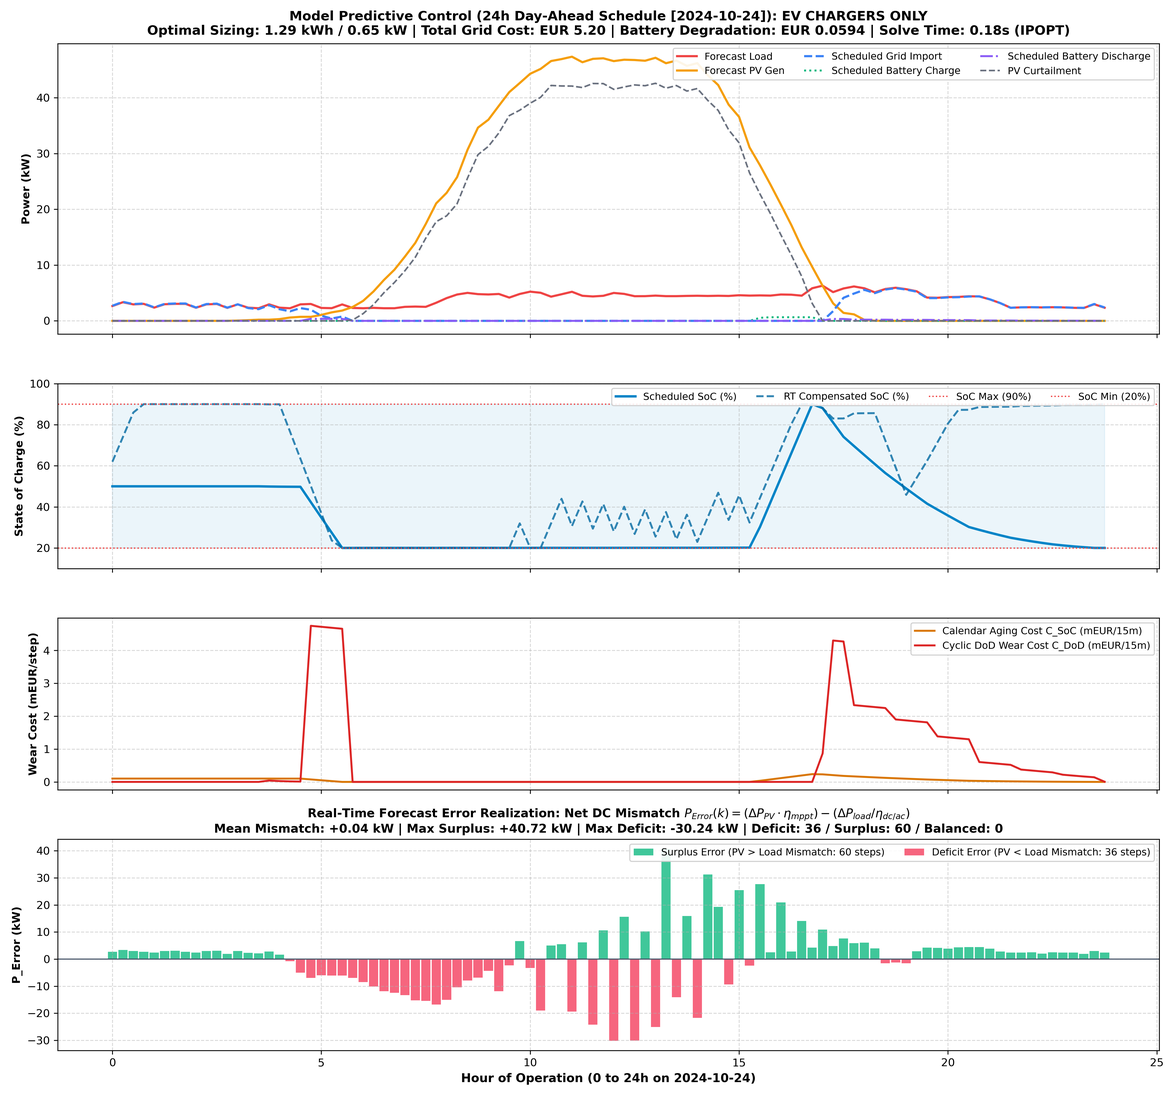
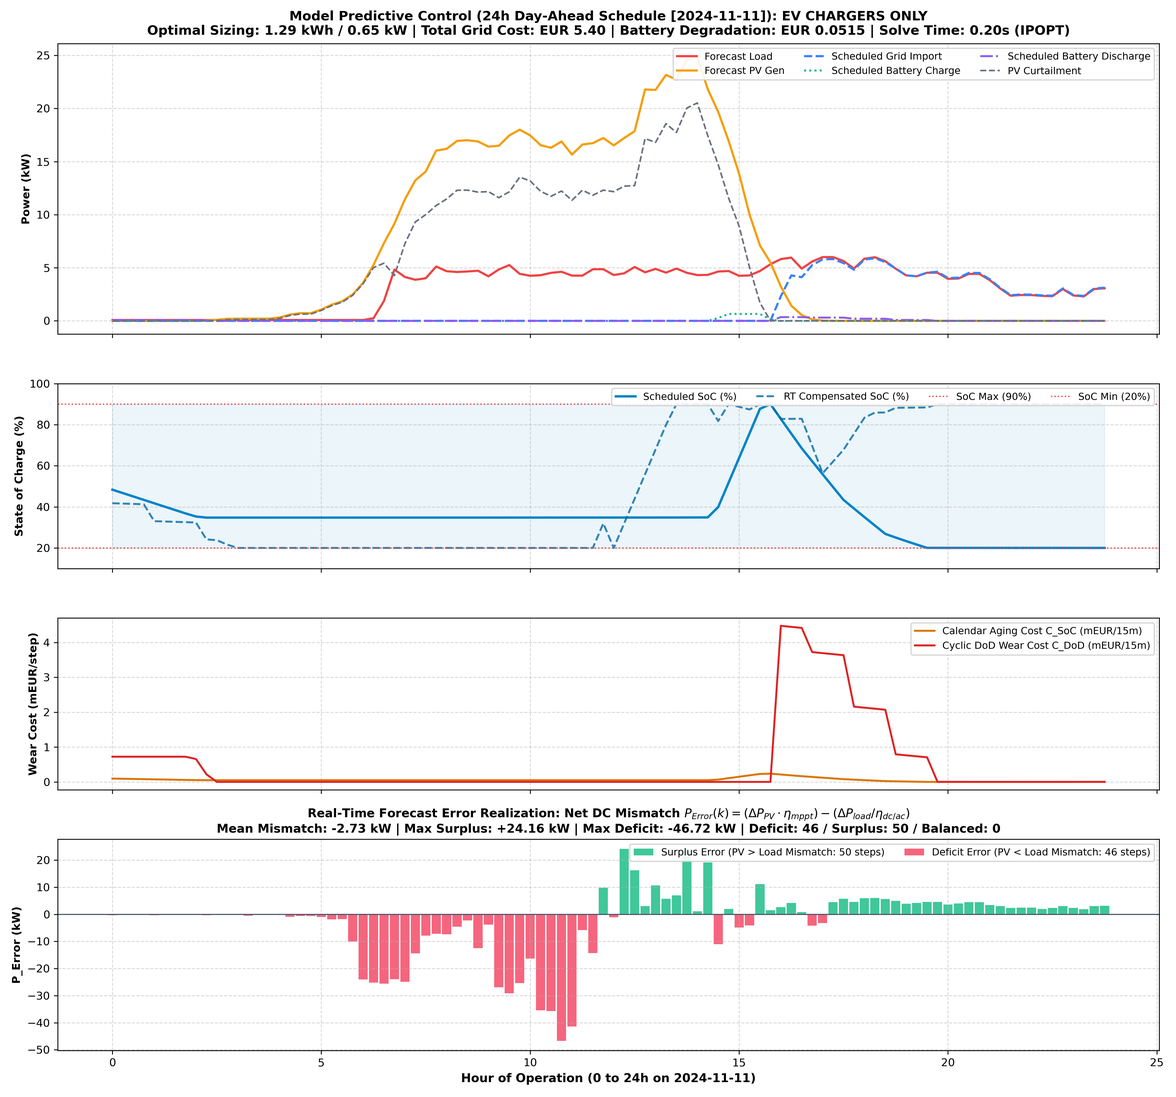
caltech update for the 2024 new year.

diff --git a/BMS_brain/src/web_ui/index.html b/BMS_brain/src/web_ui/index.html
@@ -438,13 +438,15 @@
                         <div style="display: flex; align-items: center; gap: 10px; flex-wrap: wrap; width: 100%;">
                             <span class="forecast-bar-label" style="color: #38bdf8; font-weight: 700;">📅 24h Simulation Day (96 Steps):</span>
                             <select id="mpc-date-preset" class="sim-date-preset" onchange="onPresetDateChange(this.value)" style="background: #0f172a; color: #f8fafc; border: 1px solid rgba(56, 189, 248, 0.45); border-radius: 6px; padding: 7px 11px; font-family: inherit; font-size: 0.83rem; font-weight: 600; cursor: pointer; flex: 1; min-width: 320px;">
-                                <option value="2024-10-24">🌟 2024-10-24 (Thu, Test Set) — Sunny Showcase Day [PV Peak: 103.2 kW | Supermarket: 97.6 kW | Lidl EV: 38.4 kW]</option>
-                                <option value="2024-10-05">☀ 2024-10-05 (Sat, Test Set) — Max PV Energy in Oct-Dec Test [PV Peak: 108.0 kW (443.2 kWh) | Supermarket: 98.4 kW | EV: 18.6 kW]</option>
-                                <option value="2024-10-01">📅 2024-10-01 (Tue, Test Set) — Test Split Start Day [PV Peak: 74.4 kW | Supermarket: 98.8 kW | Lidl EV: 7.2 kW]</option>
-                                <option value="2024-07-30">🔥 2024-07-30 (Tue, Summer Val) — Absolute Max Registered PV (132.0 kW) [PV Peak: 132.0 kW | Supermarket: 91.6 kW | EV: 11.4 kW]</option>
-                                <option value="2024-08-22">⚡ 2024-08-22 (Thu, Summer Val) — High Summer PV + High EV [PV Peak: 129.2 kW | Supermarket: 84.8 kW | Lidl EV: 31.2 kW]</option>
-                                <option value="2022-11-01">🎓 2022-11-01 (Tue, Caltech Test) — Caltech Test Split Start [PV Peak: 56.7 kW | Caltech EV Fleet: 62.6 kW]</option>
-                                <option value="2022-11-11">🚗 2022-11-11 (Fri, Caltech Test) — Caltech High EV Fleet Day [PV Peak: 88.4 kW | Caltech EV Fleet: 71.1 kW]</option>
+                                <option value="2024-10-24">🌟 2024-10-24 (Thu, Test Set) — Sunny Showcase Day [PV: 103.2 kW | Supermarket: 97.6 kW | Lidl EV: 38.4 kW | Caltech EV: 60.2 kW]</option>
+                                <option value="2024-10-05">☀ 2024-10-05 (Sat, Test Set) — Max PV Energy in Oct-Dec Test [PV: 108.0 kW (443.2 kWh) | Supermarket: 95.2 kW | Lidl EV: 14.0 kW | Caltech EV: 56.5 kW]</option>
+                                <option value="2024-10-01">📅 2024-10-01 (Tue, Test Set) — Test Split Start Day [PV: 74.4 kW | Supermarket: 98.8 kW | Lidl EV: 7.2 kW | Caltech EV: 11.0 kW]</option>
+                                <option value="2024-07-30">🔥 2024-07-30 (Tue, Summer Val) — Absolute Max Registered PV (132.0 kW) [PV: 132.0 kW | Supermarket: 91.6 kW | Lidl EV: 14.4 kW | Caltech EV: 20.1 kW]</option>
+                                <option value="2024-08-22">⚡ 2024-08-22 (Thu, Summer Val) — High Summer PV + High EV [PV: 129.2 kW | Supermarket: 92.8 kW | Lidl EV: 31.2 kW | Caltech EV: 67.5 kW]</option>
+                                <option value="2024-11-01">🎓 2024-11-01 (Fri, Test Set) — Caltech High Energy Day [PV: 31.2 kW | Supermarket: 97.2 kW | Lidl EV: 12.4 kW | Caltech EV: 62.6 kW]</option>
+                                <option value="2024-11-11">🚗 2024-11-11 (Mon, Test Set) — High EV Fleet Day (Lidl &amp; Caltech) [PV: 44.8 kW | Supermarket: 99.2 kW | Lidl EV: 49.6 kW | Caltech EV: 78.0 kW]</option>
+                                <option value="2024-12-07">🏆 2024-12-07 (Sat, Test Set) — Caltech Absolute Max EV Peak [PV: 52.4 kW | Supermarket: 110.4 kW | Lidl EV: 30.4 kW | Caltech EV: 81.5 kW]</option>
+                                <option value="2024-10-26">☀ 2024-10-26 (Sat, Test Set) — Balanced Autumn PV + EV [PV: 58.0 kW | Supermarket: 95.2 kW | Lidl EV: 19.6 kW | Caltech EV: 58.9 kW]</option>
                                 <option value="custom">✏ Custom Date (Select in Calendar Picker &rarr;)</option>
                             </select>
                             <div style="display: flex; align-items: center; gap: 6px;">
@@ -629,13 +631,15 @@
                         <div style="display: flex; align-items: center; gap: 10px; flex-wrap: wrap; width: 100%;">
                             <span class="forecast-bar-label" style="color: #38bdf8; font-weight: 700;">📅 24h Simulation Day (96 Steps):</span>
                             <select id="rt-date-preset" class="sim-date-preset" onchange="onPresetDateChange(this.value)" style="background: #0f172a; color: #f8fafc; border: 1px solid rgba(56, 189, 248, 0.45); border-radius: 6px; padding: 7px 11px; font-family: inherit; font-size: 0.83rem; font-weight: 600; cursor: pointer; flex: 1; min-width: 320px;">
-                                <option value="2024-10-24">🌟 2024-10-24 (Thu, Test Set) — Sunny Showcase Day [PV Peak: 103.2 kW | Supermarket: 97.6 kW | Lidl EV: 38.4 kW]</option>
-                                <option value="2024-10-05">☀ 2024-10-05 (Sat, Test Set) — Max PV Energy in Oct-Dec Test [PV Peak: 108.0 kW (443.2 kWh) | Supermarket: 98.4 kW | EV: 18.6 kW]</option>
-                                <option value="2024-10-01">📅 2024-10-01 (Tue, Test Set) — Test Split Start Day [PV Peak: 74.4 kW | Supermarket: 98.8 kW | Lidl EV: 7.2 kW]</option>
-                                <option value="2024-07-30">🔥 2024-07-30 (Tue, Summer Val) — Absolute Max Registered PV (132.0 kW) [PV Peak: 132.0 kW | Supermarket: 91.6 kW | EV: 11.4 kW]</option>
-                                <option value="2024-08-22">⚡ 2024-08-22 (Thu, Summer Val) — High Summer PV + High EV [PV Peak: 129.2 kW | Supermarket: 84.8 kW | Lidl EV: 31.2 kW]</option>
-                                <option value="2022-11-01">🎓 2022-11-01 (Tue, Caltech Test) — Caltech Test Split Start [PV Peak: 56.7 kW | Caltech EV Fleet: 62.6 kW]</option>
-                                <option value="2022-11-11">🚗 2022-11-11 (Fri, Caltech Test) — Caltech High EV Fleet Day [PV Peak: 88.4 kW | Caltech EV Fleet: 71.1 kW]</option>
+                                <option value="2024-10-24">🌟 2024-10-24 (Thu, Test Set) — Sunny Showcase Day [PV: 103.2 kW | Supermarket: 97.6 kW | Lidl EV: 38.4 kW | Caltech EV: 60.2 kW]</option>
+                                <option value="2024-10-05">☀ 2024-10-05 (Sat, Test Set) — Max PV Energy in Oct-Dec Test [PV: 108.0 kW (443.2 kWh) | Supermarket: 95.2 kW | Lidl EV: 14.0 kW | Caltech EV: 56.5 kW]</option>
+                                <option value="2024-10-01">📅 2024-10-01 (Tue, Test Set) — Test Split Start Day [PV: 74.4 kW | Supermarket: 98.8 kW | Lidl EV: 7.2 kW | Caltech EV: 11.0 kW]</option>
+                                <option value="2024-07-30">🔥 2024-07-30 (Tue, Summer Val) — Absolute Max Registered PV (132.0 kW) [PV: 132.0 kW | Supermarket: 91.6 kW | Lidl EV: 14.4 kW | Caltech EV: 20.1 kW]</option>
+                                <option value="2024-08-22">⚡ 2024-08-22 (Thu, Summer Val) — High Summer PV + High EV [PV: 129.2 kW | Supermarket: 92.8 kW | Lidl EV: 31.2 kW | Caltech EV: 67.5 kW]</option>
+                                <option value="2024-11-01">🎓 2024-11-01 (Fri, Test Set) — Caltech High Energy Day [PV: 31.2 kW | Supermarket: 97.2 kW | Lidl EV: 12.4 kW | Caltech EV: 62.6 kW]</option>
+                                <option value="2024-11-11">🚗 2024-11-11 (Mon, Test Set) — High EV Fleet Day (Lidl &amp; Caltech) [PV: 44.8 kW | Supermarket: 99.2 kW | Lidl EV: 49.6 kW | Caltech EV: 78.0 kW]</option>
+                                <option value="2024-12-07">🏆 2024-12-07 (Sat, Test Set) — Caltech Absolute Max EV Peak [PV: 52.4 kW | Supermarket: 110.4 kW | Lidl EV: 30.4 kW | Caltech EV: 81.5 kW]</option>
+                                <option value="2024-10-26">☀ 2024-10-26 (Sat, Test Set) — Balanced Autumn PV + EV [PV: 58.0 kW | Supermarket: 95.2 kW | Lidl EV: 19.6 kW | Caltech EV: 58.9 kW]</option>
                                 <option value="custom">✏ Custom Date (Select in Calendar Picker &rarr;)</option>
                             </select>
                             <div style="display: flex; align-items: center; gap: 6px;">
@@ -839,13 +843,15 @@
                         <div style="display: flex; align-items: center; gap: 10px; flex-wrap: wrap; width: 100%;">
                             <span class="forecast-bar-label" style="color: #38bdf8; font-weight: 700;">📅 24h Simulation Day (96 Steps):</span>
                             <select id="dss-date-preset" class="sim-date-preset" onchange="onPresetDateChange(this.value)" style="background: #0f172a; color: #f8fafc; border: 1px solid rgba(56, 189, 248, 0.45); border-radius: 6px; padding: 7px 11px; font-family: inherit; font-size: 0.83rem; font-weight: 600; cursor: pointer; flex: 1; min-width: 320px;">
-                                <option value="2024-10-24">🌟 2024-10-24 (Thu, Test Set) — Sunny Showcase Day [PV Peak: 103.2 kW | Supermarket: 97.6 kW | Lidl EV: 38.4 kW]</option>
-                                <option value="2024-10-05">☀ 2024-10-05 (Sat, Test Set) — Max PV Energy in Oct-Dec Test [PV Peak: 108.0 kW (443.2 kWh) | Supermarket: 98.4 kW | EV: 18.6 kW]</option>
-                                <option value="2024-10-01">📅 2024-10-01 (Tue, Test Set) — Test Split Start Day [PV Peak: 74.4 kW | Supermarket: 98.8 kW | Lidl EV: 7.2 kW]</option>
-                                <option value="2024-07-30">🔥 2024-07-30 (Tue, Summer Val) — Absolute Max Registered PV (132.0 kW) [PV Peak: 132.0 kW | Supermarket: 91.6 kW | EV: 11.4 kW]</option>
-                                <option value="2024-08-22">⚡ 2024-08-22 (Thu, Summer Val) — High Summer PV + High EV [PV Peak: 129.2 kW | Supermarket: 84.8 kW | Lidl EV: 31.2 kW]</option>
-                                <option value="2022-11-01">🎓 2022-11-01 (Tue, Caltech Test) — Caltech Test Split Start [PV Peak: 56.7 kW | Caltech EV Fleet: 62.6 kW]</option>
-                                <option value="2022-11-11">🚗 2022-11-11 (Fri, Caltech Test) — Caltech High EV Fleet Day [PV Peak: 88.4 kW | Caltech EV Fleet: 71.1 kW]</option>
+                                <option value="2024-10-24">🌟 2024-10-24 (Thu, Test Set) — Sunny Showcase Day [PV: 103.2 kW | Supermarket: 97.6 kW | Lidl EV: 38.4 kW | Caltech EV: 60.2 kW]</option>
+                                <option value="2024-10-05">☀ 2024-10-05 (Sat, Test Set) — Max PV Energy in Oct-Dec Test [PV: 108.0 kW (443.2 kWh) | Supermarket: 95.2 kW | Lidl EV: 14.0 kW | Caltech EV: 56.5 kW]</option>
+                                <option value="2024-10-01">📅 2024-10-01 (Tue, Test Set) — Test Split Start Day [PV: 74.4 kW | Supermarket: 98.8 kW | Lidl EV: 7.2 kW | Caltech EV: 11.0 kW]</option>
+                                <option value="2024-07-30">🔥 2024-07-30 (Tue, Summer Val) — Absolute Max Registered PV (132.0 kW) [PV: 132.0 kW | Supermarket: 91.6 kW | Lidl EV: 14.4 kW | Caltech EV: 20.1 kW]</option>
+                                <option value="2024-08-22">⚡ 2024-08-22 (Thu, Summer Val) — High Summer PV + High EV [PV: 129.2 kW | Supermarket: 92.8 kW | Lidl EV: 31.2 kW | Caltech EV: 67.5 kW]</option>
+                                <option value="2024-11-01">🎓 2024-11-01 (Fri, Test Set) — Caltech High Energy Day [PV: 31.2 kW | Supermarket: 97.2 kW | Lidl EV: 12.4 kW | Caltech EV: 62.6 kW]</option>
+                                <option value="2024-11-11">🚗 2024-11-11 (Mon, Test Set) — High EV Fleet Day (Lidl &amp; Caltech) [PV: 44.8 kW | Supermarket: 99.2 kW | Lidl EV: 49.6 kW | Caltech EV: 78.0 kW]</option>
+                                <option value="2024-12-07">🏆 2024-12-07 (Sat, Test Set) — Caltech Absolute Max EV Peak [PV: 52.4 kW | Supermarket: 110.4 kW | Lidl EV: 30.4 kW | Caltech EV: 81.5 kW]</option>
+                                <option value="2024-10-26">☀ 2024-10-26 (Sat, Test Set) — Balanced Autumn PV + EV [PV: 58.0 kW | Supermarket: 95.2 kW | Lidl EV: 19.6 kW | Caltech EV: 58.9 kW]</option>
                                 <option value="custom">✏ Custom Date (Select in Calendar Picker &rarr;)</option>
                             </select>
                             <div style="display: flex; align-items: center; gap: 6px;">

diff --git a/BMS_brain/src/web_ui/index.js b/BMS_brain/src/web_ui/index.js
@@ -933,7 +933,7 @@ async function loadMPCMetrics() {
             if (gcEl && su) gcEl.textContent = `EUR ${su.total_grid_cost_eur.toFixed(2)}`;
             if (dcEl && su) dcEl.textContent = `EUR ${su.total_battery_degradation_cost_eur.toFixed(4)}`;
             if (erEl && ms) erEl.textContent = `${ms.mean_p_error_kw > 0 ? '+' : ''}${ms.mean_p_error_kw.toFixed(2)} kW`;
-            if (csEl && ms) csEl.textContent = `${ms.surplus_intervals} Surplus / ${ms.deficit_intervals} Deficit`;
+            if (csEl && ms) csEl.textContent = `${ms.surplus_intervals} Surplus / ${ms.deficit_intervals} Deficit${sm.date ? ' [' + sm.date + ']' : ''}`;
         }
 
         // Lidl EV
@@ -954,7 +954,7 @@ async function loadMPCMetrics() {
             if (gcEl && su) gcEl.textContent = `EUR ${su.total_grid_cost_eur.toFixed(2)}`;
             if (dcEl && su) dcEl.textContent = `EUR ${su.total_battery_degradation_cost_eur.toFixed(4)}`;
             if (erEl && ms) erEl.textContent = `${ms.mean_p_error_kw > 0 ? '+' : ''}${ms.mean_p_error_kw.toFixed(2)} kW`;
-            if (csEl && ms) csEl.textContent = `${ms.surplus_intervals} Surplus / ${ms.deficit_intervals} Deficit`;
+            if (csEl && ms) csEl.textContent = `${ms.surplus_intervals} Surplus / ${ms.deficit_intervals} Deficit${ev.date ? ' [' + ev.date + ']' : ''}`;
         }
 
         // Caltech EV
@@ -975,7 +975,7 @@ async function loadMPCMetrics() {
             if (gcEl && su) gcEl.textContent = `EUR ${su.total_grid_cost_eur.toFixed(2)}`;
             if (dcEl && su) dcEl.textContent = `EUR ${su.total_battery_degradation_cost_eur.toFixed(4)}`;
             if (erEl && ms) erEl.textContent = `${ms.mean_p_error_kw > 0 ? '+' : ''}${ms.mean_p_error_kw.toFixed(2)} kW`;
-            if (csEl && ms) csEl.textContent = `${ms.surplus_intervals} Surplus / ${ms.deficit_intervals} Deficit`;
+            if (csEl && ms) csEl.textContent = `${ms.surplus_intervals} Surplus / ${ms.deficit_intervals} Deficit${ce.date ? ' [' + ce.date + ']' : ''}`;
         }
 
         // Refresh plots
@@ -1037,7 +1037,7 @@ async function loadRTMetrics() {
             if (degEl && act) degEl.textContent = `EUR ${act.degradation_cost_eur.toFixed(4)}`;
             if (curtEl && act) curtEl.textContent = `${act.curtailed_solar_kwh.toFixed(2)} kWh`;
             if (balEl && dc) balEl.textContent = `${dc.max_residual_mismatch_kw.toFixed(6)} kW [PASSED]`;
-            if (casesEl && mc) casesEl.textContent = `${mc.deficit_intervals} Def / ${mc.surplus_intervals} Sur / ${mc.deadband_intervals} Deadband`;
+            if (casesEl && mc) casesEl.textContent = `${mc.deficit_intervals} Def / ${mc.surplus_intervals} Sur / ${mc.deadband_intervals} DB${sm.date ? ' [' + sm.date + ']' : ''}`;
         }
 
         // Lidl EV
@@ -1060,7 +1060,7 @@ async function loadRTMetrics() {
             if (degEl && act) degEl.textContent = `EUR ${act.degradation_cost_eur.toFixed(4)}`;
             if (curtEl && act) curtEl.textContent = `${act.curtailed_solar_kwh.toFixed(2)} kWh`;
             if (balEl && dc) balEl.textContent = `${dc.max_residual_mismatch_kw.toFixed(6)} kW [PASSED]`;
-            if (casesEl && mc) casesEl.textContent = `${mc.deficit_intervals} Def / ${mc.surplus_intervals} Sur / ${mc.deadband_intervals} Deadband`;
+            if (casesEl && mc) casesEl.textContent = `${mc.deficit_intervals} Def / ${mc.surplus_intervals} Sur / ${mc.deadband_intervals} DB${ev.date ? ' [' + ev.date + ']' : ''}`;
         }
 
         // Caltech EV
@@ -1083,7 +1083,7 @@ async function loadRTMetrics() {
             if (degEl && act) degEl.textContent = `EUR ${act.degradation_cost_eur.toFixed(4)}`;
             if (curtEl && act) curtEl.textContent = `${act.curtailed_solar_kwh.toFixed(2)} kWh`;
             if (balEl && dc) balEl.textContent = `${dc.max_residual_mismatch_kw.toFixed(6)} kW [PASSED]`;
-            if (casesEl && mc) casesEl.textContent = `${mc.deficit_intervals} Def / ${mc.surplus_intervals} Sur / ${mc.deadband_intervals} Deadband`;
+            if (casesEl && mc) casesEl.textContent = `${mc.deficit_intervals} Def / ${mc.surplus_intervals} Sur / ${mc.deadband_intervals} DB${ce.date ? ' [' + ce.date + ']' : ''}`;
         }
 
         refreshRTPlots();
@@ -1110,13 +1110,15 @@ function refreshRTPlots() {
 // ============================================================================
 
 const PRESET_DATE_DESCRIPTIONS = {
-    "2024-10-24": "🌟 <strong>2024-10-24 (Thu, Test Set)</strong> — Sunny Showcase Day: <code>103.2 kW</code> PV Peak (378 kWh) | <code>97.6 kW</code> Supermarket | <code>38.4 kW</code> Lidl EV",
-    "2024-10-05": "☀ <strong>2024-10-05 (Sat, Test Set)</strong> — Highest PV Energy in Test Set: <code>108.0 kW</code> PV Peak (443.2 kWh) | <code>98.4 kW</code> Supermarket | <code>18.6 kW</code> Lidl EV",
-    "2024-10-01": "📅 <strong>2024-10-01 (Tue, Test Set)</strong> — Official Test Split Start: <code>74.4 kW</code> PV Peak (221.3 kWh) | <code>98.8 kW</code> Supermarket | <code>7.2 kW</code> Lidl EV",
-    "2024-07-30": "🔥 <strong>2024-07-30 (Tue, Summer Val)</strong> — Absolute Max Registered PV: <code>132.0 kW</code> PV Peak (601.5 kWh) | <code>91.6 kW</code> Supermarket | <code>11.4 kW</code> Lidl EV",
-    "2024-08-22": "⚡ <strong>2024-08-22 (Thu, Summer Val)</strong> — High Summer PV + High EV: <code>129.2 kW</code> PV Peak (570.9 kWh) | <code>84.8 kW</code> Supermarket | <code>31.2 kW</code> Lidl EV",
-    "2022-11-01": "🎓 <strong>2022-11-01 (Tue, Caltech 2022 Test)</strong> — Caltech Test Split Start: <code>56.7 kW</code> PV Peak | <code>62.6 kW</code> Caltech EV Fleet",
-    "2022-11-11": "🚗 <strong>2022-11-11 (Fri, Caltech 2022 Test)</strong> — Caltech High EV Fleet Day: <code>88.4 kW</code> PV Peak | <code>71.1 kW</code> Caltech EV Fleet"
+    "2024-10-24": "🌟 <strong>2024-10-24 (Thu, Test Set)</strong> — Sunny Showcase Day (Shared 2024 PV &amp; Tariffs): <code>103.2 kW</code> PV Peak (378.1 kWh) | <code>97.6 kW</code> Supermarket | <code>38.4 kW</code> Lidl EV | <code>60.2 kW</code> Caltech EV",
+    "2024-10-05": "☀ <strong>2024-10-05 (Sat, Test Set)</strong> — Highest PV Energy in Test Set (Shared 2024 PV &amp; Tariffs): <code>108.0 kW</code> PV Peak (443.2 kWh) | <code>95.2 kW</code> Supermarket | <code>14.0 kW</code> Lidl EV | <code>56.5 kW</code> Caltech EV",
+    "2024-10-01": "📅 <strong>2024-10-01 (Tue, Test Set)</strong> — Official Test Split Start (Shared 2024 PV &amp; Tariffs): <code>74.4 kW</code> PV Peak (324.0 kWh) | <code>98.8 kW</code> Supermarket | <code>7.2 kW</code> Lidl EV | <code>11.0 kW</code> Caltech EV",
+    "2024-07-30": "🔥 <strong>2024-07-30 (Tue, Summer Val)</strong> — Absolute Max Registered PV (Shared 2024 PV &amp; Tariffs): <code>132.0 kW</code> PV Peak (706.6 kWh) | <code>91.6 kW</code> Supermarket | <code>14.4 kW</code> Lidl EV | <code>20.1 kW</code> Caltech EV",
+    "2024-08-22": "⚡ <strong>2024-08-22 (Thu, Summer Val)</strong> — High Summer PV + High EV (Shared 2024 PV &amp; Tariffs): <code>129.2 kW</code> PV Peak (609.4 kWh) | <code>92.8 kW</code> Supermarket | <code>31.2 kW</code> Lidl EV | <code>67.5 kW</code> Caltech EV",
+    "2024-11-01": "🎓 <strong>2024-11-01 (Fri, Test Set)</strong> — High Caltech EV Energy Day (Shared 2024 PV &amp; Tariffs): <code>31.2 kW</code> PV Peak (126.4 kWh) | <code>97.2 kW</code> Supermarket | <code>12.4 kW</code> Lidl EV | <code>62.6 kW</code> Caltech EV",
+    "2024-11-11": "🚗 <strong>2024-11-11 (Mon, Test Set)</strong> — High EV Fleet Day (Shared 2024 PV &amp; Tariffs): <code>44.8 kW</code> PV Peak (158.7 kWh) | <code>99.2 kW</code> Supermarket | <code>49.6 kW</code> Lidl EV | <code>78.0 kW</code> Caltech EV",
+    "2024-12-07": "🏆 <strong>2024-12-07 (Sat, Test Set)</strong> — Caltech Absolute Max EV Peak (Shared 2024 PV &amp; Tariffs): <code>52.4 kW</code> PV Peak (147.2 kWh) | <code>110.4 kW</code> Supermarket | <code>30.4 kW</code> Lidl EV | <code>81.5 kW</code> Caltech EV",
+    "2024-10-26": "☀ <strong>2024-10-26 (Sat, Test Set)</strong> — Balanced Autumn PV + EV (Shared 2024 PV &amp; Tariffs): <code>58.0 kW</code> PV Peak (232.6 kWh) | <code>95.2 kW</code> Supermarket | <code>19.6 kW</code> Lidl EV | <code>58.9 kW</code> Caltech EV"
 };
 
 function getSelectedSimulationDate() {

diff --git a/BMS_brain/src/mpc_optimizer.py b/BMS_brain/src/mpc_optimizer.py
@@ -49,18 +49,21 @@ DEFAULT_SIZING = {
     "caltech_ev": {"E_B_max": 31.36, "P_B_max": 14.07, "name": "Caltech Campus EV Fleet (c_ev)"}
 }
 
-# Recommended 24-hour test dates per asset timeline
+# Recommended 24-hour test dates per asset timeline (Unified on 2024 solar & tariff timeline)
 DEFAULT_START_DATES = {
     "supermarket": "2024-10-24",
     "ev": "2024-10-24",
-    "caltech_ev": "2022-11-01",
+    "caltech_ev": "2024-10-24",
 }
 
 
 def resolve_valid_start_date(mode: str, start_date: str = None) -> str:
     """
-    Normalizes start_date so 2024 modes ('supermarket', 'ev') use a valid 2024 date
-    and 2022 mode ('caltech_ev') uses a valid Nov-Dec 2022 date.
+    Normalizes start_date across all three microgrid cases onto the unified 2024 solar & tariff timeline:
+      - 'supermarket' and 'ev' datasets span 2022-01-01 to 2024-12-31 (valid window with 7d lag: 2022-01-08 .. 2024-12-30).
+      - 'caltech_ev' treats its 2022 EV charger demand profile as occurring in 2024 so that all 3 cases
+        share the exact same 2024 Solar PV profile (forecast & actual) and 2024 electricity tariffs on any selected date.
+        If a 2022/2023 date (YYYY-MM-DD) is passed, it is mapped to 2024-MM-DD for 'caltech_ev'.
     """
     if not start_date:
         return DEFAULT_START_DATES.get(mode, "2024-10-24")
@@ -69,16 +72,20 @@ def resolve_valid_start_date(mode: str, start_date: str = None) -> str:
     except Exception:
         return DEFAULT_START_DATES.get(mode, "2024-10-24")
 
-    if mode == "caltech_ev":
-        if ts.year != 2022 or ts < pd.Timestamp("2022-09-15"):
-            fallback = DEFAULT_START_DATES["caltech_ev"]
-            print(f"  [Date Resolver] Note: '{start_date}' is outside Caltech 2022 dataset; using '{fallback}' for caltech_ev.")
-            return fallback
-    else:
-        if ts.year != 2024:
-            fallback = DEFAULT_START_DATES.get(mode, "2024-10-24")
-            print(f"  [Date Resolver] Note: '{start_date}' is outside 2024 dataset; using '{fallback}' for {mode}.")
-            return fallback
+    if mode == "caltech_ev" and ts.year != 2024:
+        try:
+            mapped_ts = ts.replace(year=2024)
+        except ValueError:
+            mapped_ts = pd.Timestamp("2024-02-28")
+        mapped_ts = max(pd.Timestamp("2024-01-08"), min(pd.Timestamp("2024-12-30"), mapped_ts))
+        mapped_str = mapped_ts.strftime("%Y-%m-%d")
+        print(f"  [Date Resolver] Mapped '{start_date}' -> '{mapped_str}' (2024 unified solar & tariff timeline for caltech_ev).")
+        return mapped_str
+
+    if ts < pd.Timestamp("2022-01-08") or ts > pd.Timestamp("2024-12-30"):
+        fallback = DEFAULT_START_DATES.get(mode, "2024-10-24")
+        print(f"  [Date Resolver] Note: '{start_date}' is outside [2022-01-08..2024-12-30]; using '{fallback}' for {mode}.")
+        return fallback
     return ts.strftime("%Y-%m-%d")
 
 
@@ -146,10 +153,10 @@ def get_forecast_and_actual_trajectories(mode: str, start_date: str, horizon: in
     # Target identifiers
     load_target_key = "con" if mode == "supermarket" else ("ev" if mode == "ev" else "caltech")
 
-    # 1. Load PV Forecast and Actual
+    # 1. Load PV Forecast and Actual (Unified 2024 Solar PV profile across all 3 cases)
     df_pv, train_pv_default, _, _, target_col_pv, exog_cols_pv = load_and_preprocess("pv")
-    if mode == "caltech_ev":
-        train_pv = df_pv[df_pv.index < "2022-10-01"]
+    if start_ts.year == 2022:
+        train_pv = df_pv[df_pv.index < "2022-09-01"]
     else:
         train_pv = train_pv_default  # < 2024-01-01
 
@@ -171,11 +178,28 @@ def get_forecast_and_actual_trajectories(mode: str, start_date: str, horizon: in
     time_index = eval_pv.index[:horizon]
 
     # 2. Load Asset Demand Forecast and Actual
-    df_load, train_load, _, _, target_col_load, exog_cols_load = load_and_preprocess(load_target_key)
-    hist_load = df_load[df_load.index < start_ts]
-    eval_load = df_load[df_load.index >= start_ts]
+    # For Caltech EV ('caltech'), treat its 2022 EV charger demand dataset as occurring in 2024
+    # by pulling the corresponding calendar day (MM-DD) from 2022 while keeping 2024 PV & Tariffs.
+    df_load, train_load_default, _, _, target_col_load, exog_cols_load = load_and_preprocess(load_target_key)
+    if load_target_key == "caltech":
+        try:
+            load_ts = start_ts.replace(year=2022)
+        except ValueError:
+            load_ts = pd.Timestamp("2022-02-28")
+        load_ts = max(pd.Timestamp("2022-01-08"), min(pd.Timestamp("2022-12-30"), load_ts))
+        train_load = train_load_default  # < 2022-09-01
+        print(f"  [Caltech 2024 Alignment] Pairing 2024 Solar PV & Tariffs ({start_date}) with Caltech EV profile from {load_ts.strftime('%Y-%m-%d')}.")
+    else:
+        load_ts = start_ts
+        if load_ts.year == 2022:
+            train_load = df_load[df_load.index < "2022-09-01"]
+        else:
+            train_load = train_load_default
+
+    hist_load = df_load[df_load.index < load_ts]
+    eval_load = df_load[df_load.index >= load_ts]
     if len(eval_load) < horizon:
-        raise ValueError(f"Insufficient Load data after {start_date}: found {len(eval_load)} steps, need {horizon}.")
+        raise ValueError(f"Insufficient Load data after {load_ts}: found {len(eval_load)} steps, need {horizon}.")
 
     best_regressor = "LGBM" if load_target_key in ["con", "caltech"] else "XGB"
     forecaster_load = ForecasterRecursive(estimator=get_models(load_target_key)[best_regressor], lags=LAGS)
